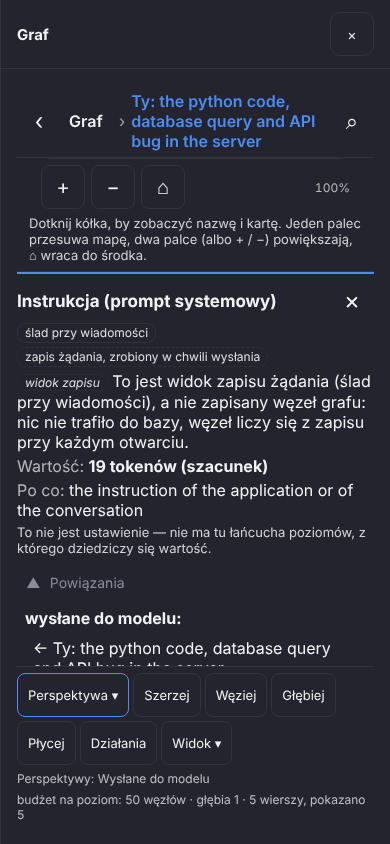
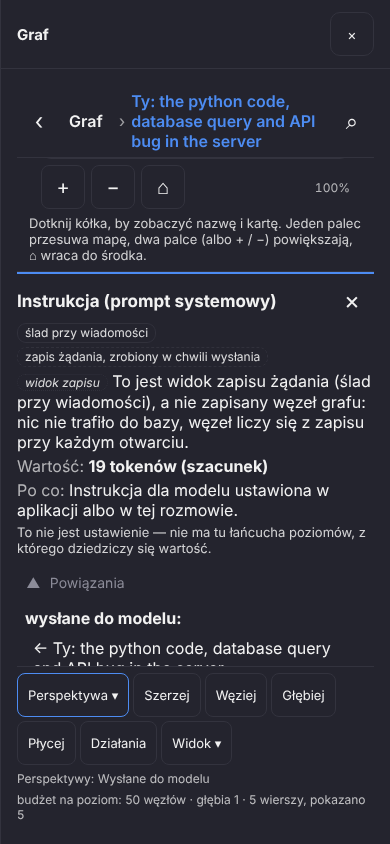
M1-K1c4 (3): report M1_CHECKPOINT_1 refreshed (powody po polsku, zdanie pod Brak sladu, re-shot m1-sent-graph / left-out / card / sheet-missing, new m1-context-sheet-memory-why) and INDEX entry S1 / M1-K1c4 (what was found on the Polish screens, decisions and how to reverse, what is left)
Claude-Session: https://claude.ai/code/session_015yMVYJqXDd8sNSZdYq3gu5

Changed region(s): [[0.0308, 0.5545, 0.8923, 0.6161]]

diff --git a/docs/reports/INDEX.md b/docs/reports/INDEX.md
@@ -1821,3 +1821,52 @@ Cel: przycisk „Pokaż w grafie” pod „Co wysłaliśmy” ma działać teraz
 - **Wyniki (lokalnie, ten worktree).** `npm run build` ok; testy jednostkowe: context-receipt 14, composer-menu 17, context-strip 12, testids-doc 2, navigator-state 11, node-card-state 11, navigator-map 10, navigator-receipt 7 (nowy, w `loom.yml`), settings-human 7, role-card 5, shell 10, shell-history 13, shell-menu 8, graph-labels 9, graph-entry 5. e2e `m1-context-sent-native` (8 kroków), `m1-context-menu-native` (11), `m1-navigator-native` (14) przeszły **dwa razy z rzędu**, zrzuty do katalogu tymczasowego, `git status` czysty po przebiegu.
 - **Decyzje i cofnięcie.** (1) Naprawa po stronie ekranu, nie „tolerancja” jądra na `msg:m_…`: adres grafu jest prawdą katalogu; cofnięcie: nic do cofania, `messageAddress` jest jedynym miejscem. (2) Dotknięcie zamyka arkusz (inaczej Wstecz z grafu zostawiłby arkusz pod nawigatorem): usunąć `onClose()` w `onClick` przycisku. (3) Zdanie jądra o widoku zapisu raz pod listą, chip „widok zapisu” w każdym wierszu: zmiana w `receiptLines`. (4) Powód pod „Brak śladu” własnymi słowami arkusza (zdanie jądra ma nazwy ustawień): w `ContextReceipt.tsx` zamienić `t("missing")` na `graph.answer`. (5) Pominięty element: chip = nazwa łącza z jądra, powód osobno tylko gdy etykieta go nie mówi. (6) Raport `M1_CHECKPOINT_1.md`: poprawione zdania szacunku i strażnika (K1c-1), punkt „Pokaż w grafie” zamieniony, nowy pkt 9 z czterema zrzutami, odświeżone zrzuty, których tekst się zmienił (arkusz: góra, szerzej ×2, wróć do bazy, Zgodność, brak śladu).
 - **Nie zrobione.** Zdania „po co” przy wierszach pochodnych zapisane po angielsku w chwili wysyłki (jądro) widać po angielsku na polskim ekranie; zdanie pod „Brak śladu” nadal ma nazwy dwóch ustawień; ścieżki `unified`/`knowledge`/`graph_packet` są pozycjami zbiorczymi; arkusz pod odpowiedzią szacuje następne zapytanie dla pustej wiadomości, załączniki i narzędzia nie są liczone; nic z tego nie było na emulatorze Androida (krok dla sterownika dopisany w `M1_W0_TESTIDS.md`); pełna bramka i cały `npm run e2e` nie były uruchamiane tutaj.
+
+### S1 / M1-K1c4 — powody „po co” zwykłymi słowami i przegląd tekstów dla programisty na polskich ekranach (2026-10-22, `claude/m1-w0`)
+
+Cel: na ekranach rodziny „Co wysłaliśmy” (arkusz, linia pod odpowiedzią, wiersze i karta zapisu w nawigatorze, menu + › Kontekst, pasek, arkusz modelu) nie ma angielskiego tekstu
+dla programistów ani surowego klucza. Tylko pakiet słów i strona web; jądro, schemat śladu i złoty plik `chat_request_legacy.json` bez zmian.
+
+- **Co było.** Jądro zapisuje powód każdego elementu angielskim zdaniem w chwili wysyłki („the instruction of the application or of the conversation”, „what the person wrote in this turn”,
+  „the heading line of the graph context”, „an active node of the memory tree” …). Wiersze zapisu w nawigatorze (`gnav-why`) i karta (`card-why`) pokazywały je bez zmian na polskim ekranie;
+  arkusz pokazywał je dla pozycji bez słów w paczce (węzeł pamięci, fragment profilu). Zdanie pod „Brak śladu” (`missing.also`) podawało nazwy ustawień `context_receipt_store`
+  i `trace_context`.
+- **Poprawka.** Zdanie jądra zostaje w zapisie (to dane: zapis jest faktem zrobionym raz). Ekran mówi to samo słowem z paczki wybranym po **stabilnym kluczu**:
+  `why.<ref>` dla stałych refów (`system_prompt`, `guardian_rules`, `memory_tree`, `graph_memory`, `unified_context`, `knowledge_context`, `active_task`, `graph_reply_instruction`, `question`),
+  inaczej `why.<source_kind>` z „:” czytanym jako „.” (`why.memory_node`, `why.message.L0` … `L3`, `why.message.graph`, `why.graph_packet`, `why.profile_slot`) — te same nazwy co `ref.*` i `chip.*`;
+  gdy paczka nie ma słowa dla klucza, ekran pokazuje zdanie jądra. Jedna czysta funkcja `whyWords(item, t)` (`context-receipt-state.ts`) używana przez arkusz, a przez
+  `rowWhy(row, receiptT)` (`navigator-receipt.ts`) także przez wiersze nawigatora (`nav-row-why`) i kartę (`card-why`). Lista kluczy pochodzi z `chat_engine.cpp`: test jednostkowy
+  czyta źródło jądra (każde wywołanie `receipt_item` / `receipt_element` i `source_kind` fragmentu profilu), więc powód, który jądro zacznie zapisywać bez słowa, wywali test. Słowa pl + en w
+  `conversation_view.pack` (`presentation.context_receipt`, obok `ref.*`): 17 kluczy `why.*`, `item.memory_node`, `item.graph_packet`, `node_type.*`, `missing.technical`; `missing.also` przepisane
+  („Tak samo jest, gdy zapisywanie śladu żądań wyłączono w ustawieniach.”). Regenerowane `builtin.inc` (jawne długości) i `generated/conversation-view.json`.
+- **Pod „Brak śladu”**: surowe nazwy z jądra (`also_when`) są tylko w zwiniętym bloku „Szczegóły techniczne” (`context-receipt-missing-technical`), a nie w zdaniu.
+- **Przegląd tekstów (krok 3), co znalazłem i co z tym zrobiłem.** Pomocnik `e2e/m1-audit.mjs` zbiera widoczne napisy i podpisy (aria-label, placeholder, title) na każdym zrzucie i przy otwarciu arkusza,
+  karty i wierszy i zgłasza surowy klucz (z kropką albo podkreśleniem) i angielskie zdanie (≥ 3 słowa, ≥ 2 słowa funkcyjne); pomija wiadomości osoby i modelu („Ty: …”, „Model: …”) oraz zwinięte
+  „Szczegóły techniczne”. Znaleziono: (1) angielski powód w wierszach i karcie zapisu — **naprawione** (słowa z paczki); (2) angielski powód w arkuszu przy węźle pamięci i fragmencie profilu — **naprawione**;
+  (3) nazwy ustawień w zdaniu pod „Brak śladu” — **naprawione** (zwykłe słowa + zwinięty blok); (4) surowy typ węzła pamięci „text” jako nazwa pozycji w arkuszu (znalazłem ręcznie, bo to jedno słowo) —
+  **naprawione** („Węzeł pamięci (tekst)”); (5) surowe „graph packet” jako nazwa pozycji w arkuszu — **naprawione** („Pakiet grafu”); (6) nagłówek karty pokazywał surowy adres
+  `setting:chat_flow`, zanim karta się załadowała (menu Przepływ tekst ↔ graf) — **naprawione** (nagłówek ma nazwę, którą nawigator już zna, a bez niej słowo „Ładuję”); (7) na karcie ustawienia w bloku „Zapis techniczny”
+  stoi `config.json; settings.set` — **zostaje** (to zwinięty blok techniczny, dokładnie miejsce na takie nazwy; pomijany przez audyt). **Tekst jądra, który zostaje:** zdanie powodu w zapisie (dane),
+  etykieta wiersza „graph packet” w nawigatorze (jądro ma słowa `sent_item_*` tylko dla stałych refów; pakiet grafu pojawia się tylko w przepływach graficznych), powód pominiętego elementu („Pamięć”, to już polskie słowo jądra).
+  Linia pod odpowiedzią, menu + › Kontekst, pasek i arkusz modelu: audyt nie znalazł w nich surowego klucza ani angielskiego zdania (są objęte zrzutami `m1-context-menu-native.mjs`). **Granica audytu:** jednowyrazowy
+  angielski napis ani dwuwyrazowy nie są wykrywane — takie znajduję tylko oglądając ekran.
+- **Powody, 4 elementy, przed i po (pl).** Instrukcja: „the instruction of the application or of the conversation” → „Instrukcja dla modelu ustawiona w aplikacji albo w tej rozmowie.” Kontekst z grafu:
+  „the heading line of the graph context” → „To, co graf dał do Twojego pytania (nagłówek bloku i znalezione wiadomości).” Pytanie: „what the person wrote in this turn” → „Tekst Twojej wiadomości w tej turze.”
+  Węzeł pamięci (arkusz): „an active node of the memory tree” → „Jeden z włączonych węzłów pamięci.” Zdanie pod „Brak śladu”: „Tak też jest, gdy zapis śladu wyłączono (ustawienie context_receipt_store = never albo
+  trace_context = false).” → „Tak samo jest, gdy zapisywanie śladu żądań wyłączono w ustawieniach.”
+- **e2e.** `m1-context-sent-native.mjs`: dla każdego wiersza pochodnego oczekiwanie to słowo z paczki wybrane po kluczu z odpowiedzi jądra (`whyWord` w `m1-words.mjs`), różne od angielskiego zdania zapisu;
+  karta mówi „Po co: <słowo>”; nowy krok na końcu: węzeł pamięci wysłany z zapytaniem ma w arkuszu „Węzeł pamięci (tekst)” i powód z paczki (nowy zrzut `m1-context-sheet-memory-why.png`); wszystkie trzy skrypty
+  m1 mają krok „żaden pokazany ekran nie ma tekstu dla programisty”. Ponownie zrobione zrzuty raportu: `m1-sent-graph`, `m1-sent-graph-left-out`, `m1-sent-card`, `m1-context-sheet-missing` (+ nowy
+  `m1-context-sheet-memory-why`); `m1-sent-graph-notes` wyszedł bajt w bajt taki sam.
+- **Wyniki (lokalnie, ten worktree).** `npm run build` ok; testy jednostkowe: context-receipt 17, composer-menu 17, context-strip 12, navigator-receipt 9, testids-doc 2, navigator-state 11, node-card-state 11,
+  navigator-map 10, settings-human 7, role-card 5, shell 10, shell-history 13, shell-menu 8, graph-labels 9, graph-entry 5. e2e `m1-context-sent-native` (10 kroków), `m1-context-menu-native` (12),
+  `m1-navigator-native` (15) przeszły **dwa razy z rzędu**, zrzuty do katalogu tymczasowego (do repozytorium trafiły tylko zrzuty raportu), `git status` bez niczego poza zamierzonymi zmianami.
+  `gen_onboarding_pack.py --check` czysty; `clang_inc_check.py loom/build/dev` wszystko ok; ctest `onboarding_pack|kb_pack|context_data|settings_fields|graph_entry|runtime_profile|kb_data_domains` 8 z 8.
+- **Decyzje i cofnięcie.** (1) Zapis bez zmian, słowa na ekranie (jądro i schemat śladu nietknięte); cofnięcie: w `context-receipt-state.ts` `why: whyWords(it, t)` → `it.why`, w `GraphNavigator.tsx` `rowWhy(row, receiptT)` → `row.why`,
+  w `NodeCard.tsx` `rowWhy(card, receiptT)` → `card.why` (słowa mogą zostać). (2) Arkusz dalej nie powtarza powodu przy pozycji, której nazwa już mówi, co to jest (stała instrukcja, pytanie, wiadomość rozmowy) — powód jest
+  w grafie; żeby pokazywać zawsze: usunąć warunek `hasWords(it, t) ? "" :`. (3) Element pominięty nie dostaje „po co poszedł” (jego powód to powód pominięcia, od jądra): warunek `kind === "left_out"` w `rowWhy`.
+  (4) `why.graph_memory` jest jednym zdaniem na dwa przypadki (nagłówek bloku i cały blok), bo jądro nadaje im ten sam ref i tę samą nazwę; rozdzielić się da dopiero zmianą jądra (osobny ref albo pole). (5) Zdania „fragment profilu”
+  i „pakiet grafu” nie niosą części/poziomu szczegółowości ani nazwy przepływu, które są w zdaniu jądra (poziom i przepływ są w nagłówku arkusza); żeby je mieć, trzeba by pola w zapisie. (6) Audyt jest asercją
+  w e2e; cofnięcie: usunąć krok „żaden pokazany ekran…” i wywołania `audit(...)`. (7) Nagłówek karty bez surowego adresu: parametr `label` w `NodeCard`; cofnięcie: `{card?.label ?? address}`.
+- **Nie zrobione.** Nie ruszałem jądra (etykiety `sent_item_*` dla pakietu grafu), `android/smoke/*`, schematu śladu ani złotego pliku; nic z tego nie było na emulatorze Androida; pełna bramka i cały `npm run e2e` nie były
+  uruchamiane tutaj; audyt nie wykrywa angielskich napisów krótszych niż trzy słowa.
